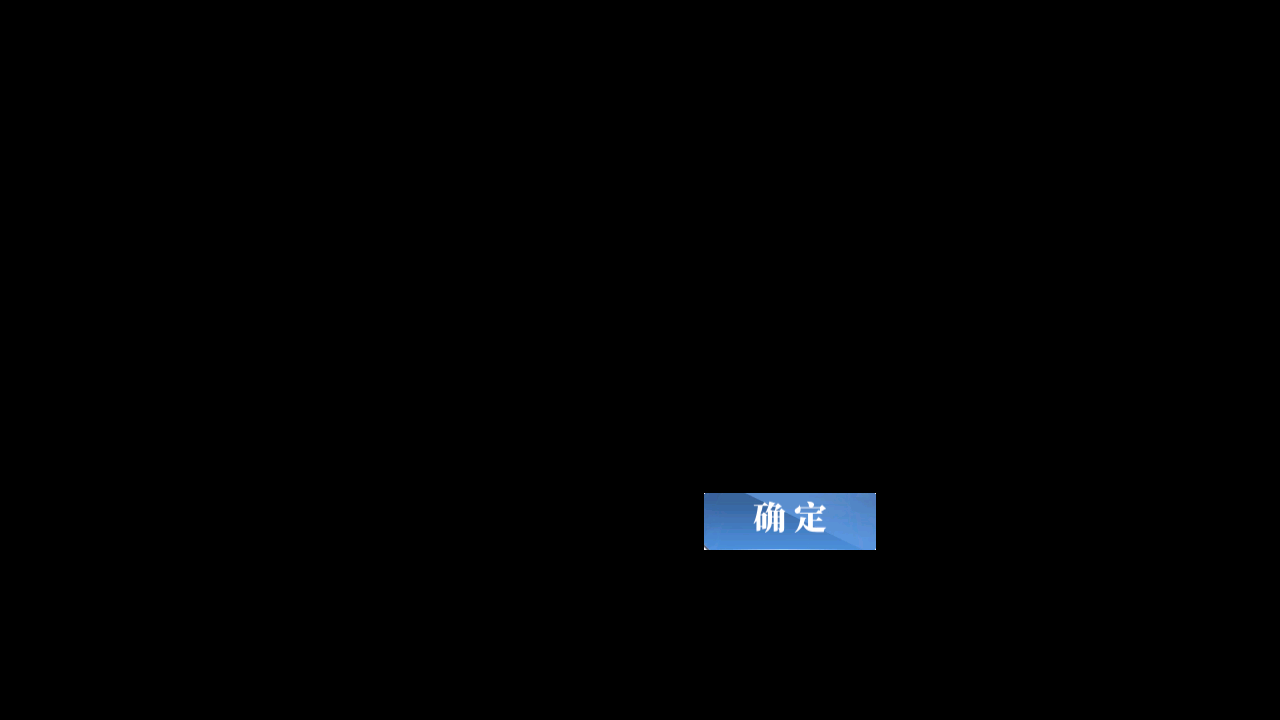
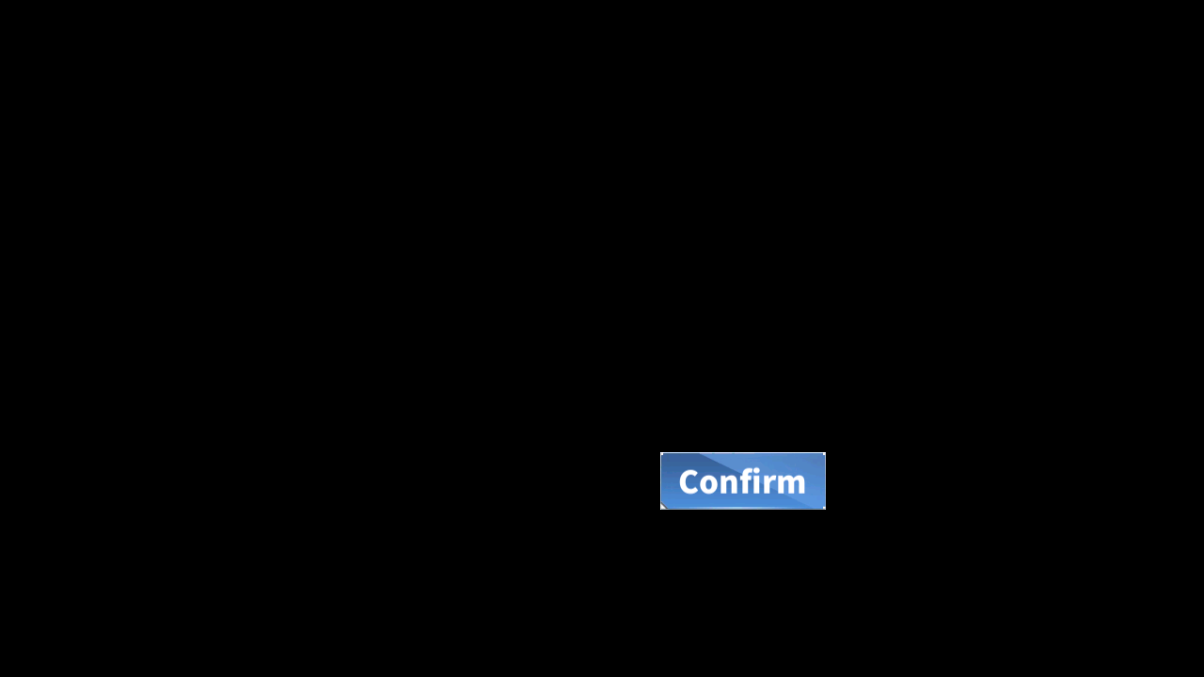
Fix assets for SHIP morale

Changed region(s): [[0.5532, 0.6514, 0.7068, 0.7755]]

diff --git a/module/handler/assets.py b/module/handler/assets.py
@@ -36,8 +36,8 @@ MAP_STAR_2 = Button(area={'cn': (532, 377, 540, 384), 'en': (532, 377, 540, 384)
 MAP_STAR_3 = Button(area={'cn': (818, 377, 827, 384), 'en': (818, 377, 827, 384)}, color={'cn': (251, 233, 143), 'en': (251, 233, 143)}, button={'cn': (818, 377, 827, 384), 'en': (818, 377, 827, 384)}, file={'cn': './assets/cn/handler/MAP_STAR_3.png', 'en': './assets/en/handler/MAP_STAR_3.png'})
 MAP_WALK_OUT_OF_STEP = Button(area={'cn': (654, 312, 704, 335), 'en': (654, 312, 704, 335)}, color={'cn': (109, 113, 120), 'en': (109, 113, 120)}, button={'cn': (654, 312, 704, 335), 'en': (654, 312, 704, 335)}, file={'cn': './assets/cn/handler/MAP_WALK_OUT_OF_STEP.png', 'en': './assets/en/handler/MAP_WALK_OUT_OF_STEP.png'})
 MYSTERY_ITEM = Button(area={'cn': (589, 294, 691, 427), 'en': (589, 294, 691, 427)}, color={'cn': (144, 127, 83), 'en': (144, 127, 83)}, button={'cn': (589, 294, 691, 427), 'en': (589, 294, 691, 427)}, file={'cn': './assets/cn/handler/MYSTERY_ITEM.png', 'en': './assets/en/handler/MYSTERY_ITEM.png'})
-POPUP_CANCEL = Button(area={'cn': (404, 493, 576, 550), 'en': (404, 493, 576, 550)}, color={'cn': (166, 169, 172), 'en': (166, 169, 172)}, button={'cn': (404, 493, 576, 550), 'en': (404, 493, 576, 550)}, file={'cn': './assets/cn/handler/POPUP_CANCEL.png', 'en': './assets/en/handler/POPUP_CANCEL.png'})
-POPUP_CONFIRM = Button(area={'cn': (704, 493, 876, 550), 'en': (704, 493, 876, 550)}, color={'cn': (94, 144, 204), 'en': (94, 144, 204)}, button={'cn': (704, 493, 876, 550), 'en': (704, 493, 876, 550)}, file={'cn': './assets/cn/handler/POPUP_CONFIRM.png', 'en': './assets/en/handler/POPUP_CONFIRM.png'})
+POPUP_CANCEL = Button(area={'cn': (404, 493, 576, 550), 'en': (378, 452, 544, 510)}, color={'cn': (166, 169, 172), 'en': (168, 170, 172)}, button={'cn': (404, 493, 576, 550), 'en': (378, 452, 544, 510)}, file={'cn': './assets/cn/handler/POPUP_CANCEL.png', 'en': './assets/en/handler/POPUP_CANCEL.png'})
+POPUP_CONFIRM = Button(area={'cn': (704, 493, 876, 550), 'en': (660, 452, 826, 510)}, color={'cn': (94, 144, 204), 'en': (107, 151, 205)}, button={'cn': (704, 493, 876, 550), 'en': (660, 452, 826, 510)}, file={'cn': './assets/cn/handler/POPUP_CONFIRM.png', 'en': './assets/en/handler/POPUP_CONFIRM.png'})
 STORY_CHOOSE = Button(area={'cn': (902, 344, 959, 357), 'en': (902, 344, 959, 357)}, color={'cn': (98, 122, 156), 'en': (98, 122, 156)}, button={'cn': (902, 344, 959, 357), 'en': (902, 344, 959, 357)}, file={'cn': './assets/cn/handler/STORY_CHOOSE.png', 'en': './assets/en/handler/STORY_CHOOSE.png'})
 STORY_CHOOSE_2 = Button(area={'cn': (903, 388, 959, 399), 'en': (903, 388, 959, 399)}, color={'cn': (98, 121, 156), 'en': (98, 121, 156)}, button={'cn': (903, 388, 959, 399), 'en': (903, 388, 959, 399)}, file={'cn': './assets/cn/handler/STORY_CHOOSE_2.png', 'en': './assets/en/handler/STORY_CHOOSE_2.png'})
 STORY_LETTERS_ONLY = Button(area={'cn': (1159, 26, 1264, 52), 'en': (1159, 26, 1264, 52)}, color={'cn': (123, 128, 141), 'en': (123, 128, 141)}, button={'cn': (1159, 26, 1264, 52), 'en': (1159, 26, 1264, 52)}, file={'cn': './assets/cn/handler/STORY_LETTERS_ONLY.png', 'en': './assets/en/handler/STORY_LETTERS_ONLY.png'})

diff --git a/campaign/event_20200521_en/d1.py b/campaign/event_20200521_en/d1.py
@@ -28,21 +28,6 @@ class Config:
     MAP_HAS_DYNAMIC_RED_BORDER = True
     MAP_SIREN_COUNT = 4
 
-    TRUST_EDGE_LINES = True
-
-    INTERNAL_LINES_FIND_PEAKS_PARAMETERS = {
-        'height': (80, 255 - 40),
-        'width': (0.9, 10),
-        'prominence': 10,
-        'distance': 35,
-    }
-    EDGE_LINES_FIND_PEAKS_PARAMETERS = {
-        'height': (255 - 40, 255),
-        'prominence': 10,
-        'distance': 50,
-        'wlen': 1000
-    }
-
 
 class Campaign(CampaignBase):
     MAP = MAP
